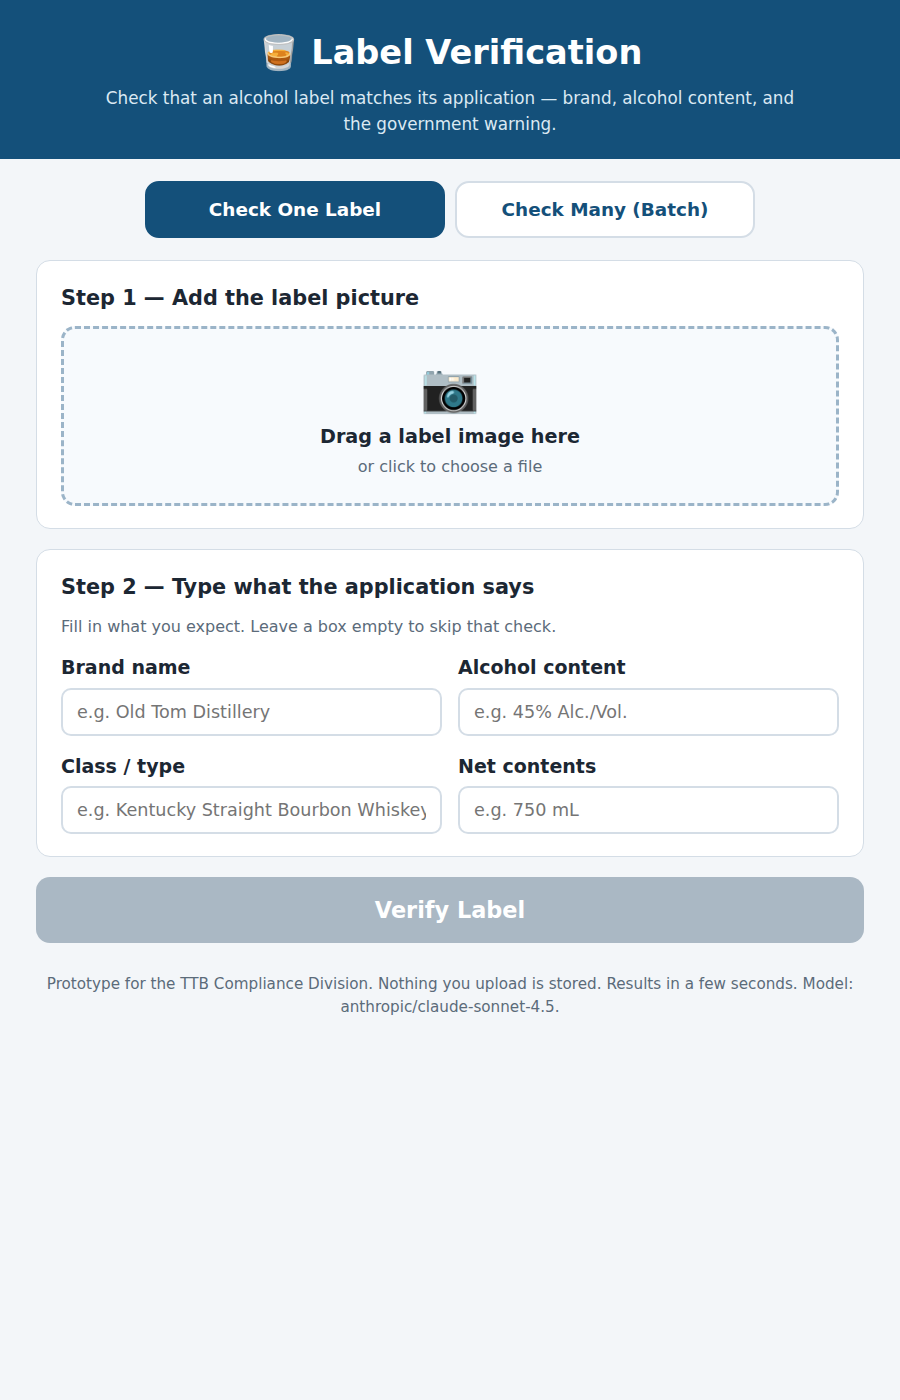
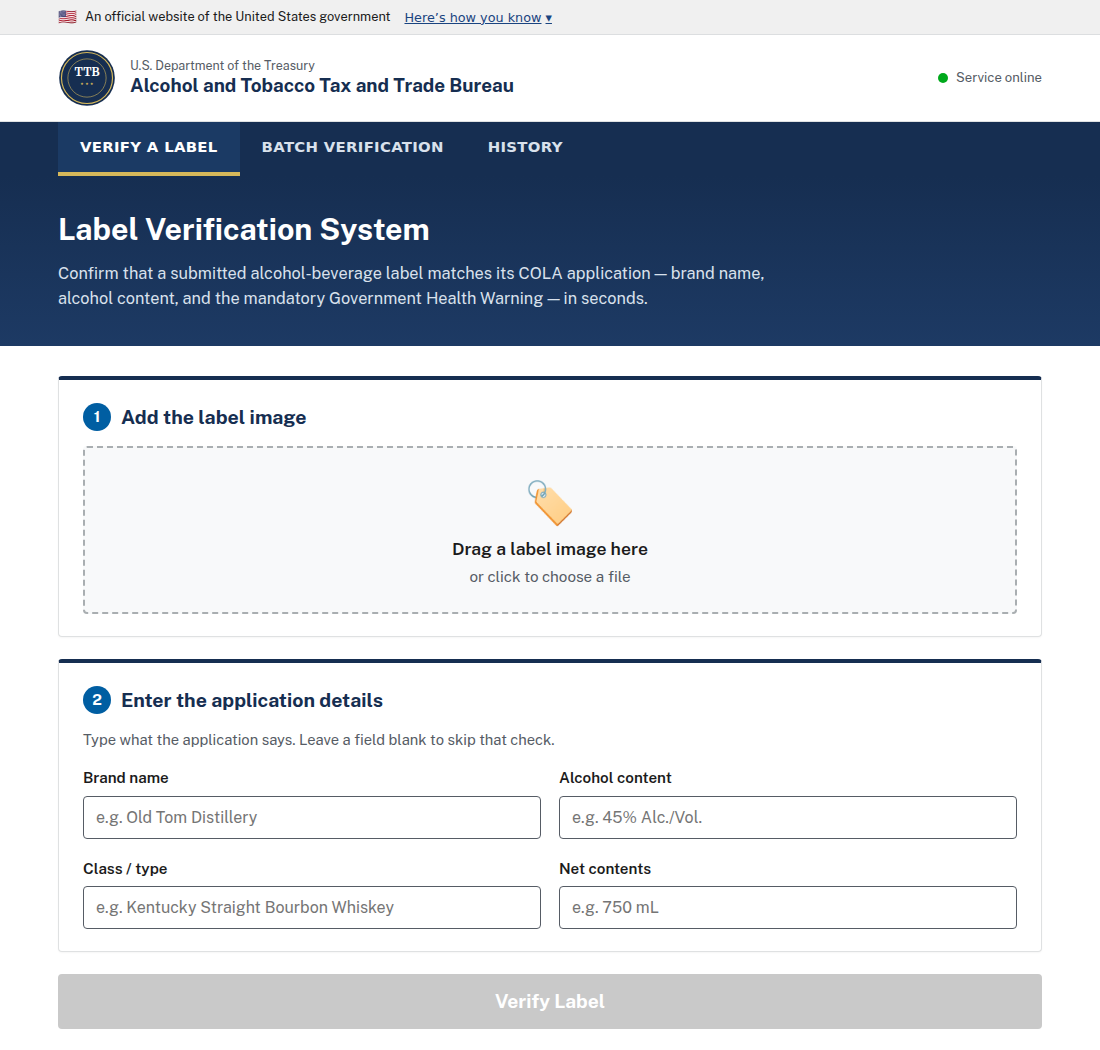
docs: document USWDS federal UI, History tab, and Playwright MCP setup

diff --git a/docs/APPROACH.md b/docs/APPROACH.md
@@ -110,3 +110,27 @@ a multi-agent orchestration system. Concretely:
   not always spawn the agent session), so the remaining work ran in Gas Town's documented
   **minimal mode** — the orchestrator tracks state in beads while a runtime instance does the work —
   which kept delivery reliable without losing the beads-tracked workflow.
+
+## Interface: built to the U.S. Web Design System (USWDS)
+
+To make the prototype look like a real federal tool (and to be familiar to TTB staff), the UI follows
+the [U.S. Web Design System](https://designsystem.digital.gov/) — the official standard behind
+`.gov` sites including ttb.gov and treasury.gov. I screenshotted those live sites for reference and
+matched: the **official-government banner**, an **agency-seal header** with the Treasury/TTB wordmark,
+a **navy primary-navigation bar** for the tabs, USWDS **alert** components for PASS/FAIL, USWDS
+**buttons**, and the **Public Sans** typeface and federal color tokens (`#162e51`, `#005ea2`, …).
+
+## History (client-side, privacy-preserving)
+
+A **History** tab lets an agent save any single or batch result under a custom name; each entry is
+stamped with the save time and can be viewed or deleted. History lives in the **browser's
+localStorage** — deliberately *not* on the server — so no application data or PII is ever persisted
+server-side (Marcus's constraint). It's per-browser, which is the right scope for a prototype; a
+production version would move this to an authenticated per-user store.
+
+## Browser automation note (Playwright MCP)
+
+The [Playwright MCP](https://github.com/microsoft/playwright-mcp) server is installed and registered
+for browser automation. Playwright's bundled browsers don't install on this host's OS (Ubuntu 26.04),
+so it's configured to drive the system Chromium via `--executable-path`. Interactive UI testing in
+this repo was done by connecting Playwright to that Chromium over the DevTools Protocol (CDP).

diff --git a/README.md b/README.md
@@ -19,11 +19,20 @@ within a few seconds the app reports — per field — whether the label matches
   word-for-word per 27 CFR 16.21 (catches paraphrases, title-case headers, omissions)
 - Plus **class/type** and **net contents** when supplied in the application
 
-It also supports **batch** uploads (hundreds of labels) with a pass/fail summary.
+It also supports **batch** uploads (hundreds of labels) with a pass/fail summary, and a
+**History** tab where any single or batch check can be saved with a custom name and timestamp.
+
+The interface is built to the **U.S. Web Design System (USWDS)** — the official standard for
+federal websites — so it reads as a genuine TTB/Treasury system: the official-government banner,
+the agency seal header, navy primary navigation, and USWDS alert/button components.
+
+- **History** — click *"Save to history as…"* (or *"Save batch to history as…"*) on any result,
+  name it, and it appears in the History tab with a timestamp. Stored **locally in the browser
+  only** (localStorage) — nothing is persisted server-side, in keeping with the no-PII guidance.
 
 ## Screenshot
 
-The single-label screen — large controls, two clear steps, one obvious button:
+The single-label screen, in the federal design system — official banner, agency seal, navy nav:
 
 ![UI](docs/screenshot-home.png)
 
